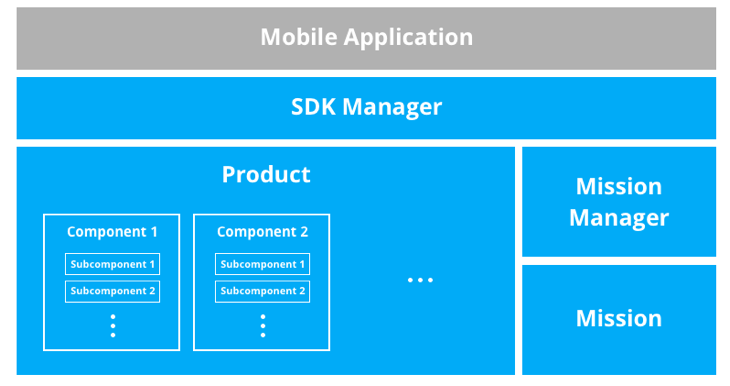
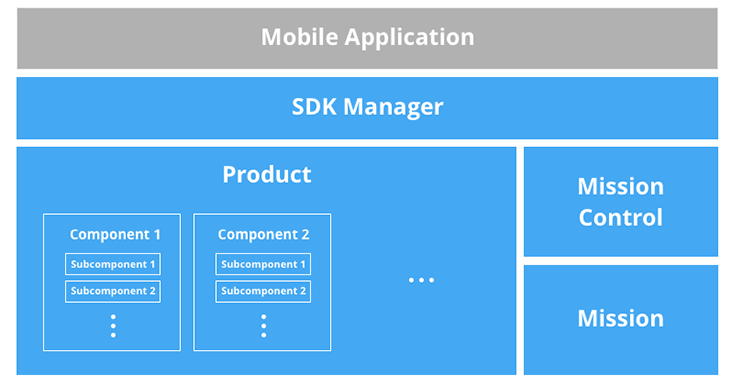
update mission control docs.

diff --git a/source/cn/ios-tutorials/GSDemo.md b/source/cn/ios-tutorials/GSDemo.md
@@ -10,7 +10,7 @@ keywords: [iOS GSDemo, waypoint mission demo]
 
 ---
 
-In this tutorial, you will learn how to implement the DJIWaypoint Mission feature and get familiar with the usages of DJIMissionManager. 
+In this tutorial, you will learn how to implement the DJIWaypoint Mission feature and get familiar with the usages of DJIMissionControl. 
 Also you will know how to test the Waypoint Mission API with DJI Assistant 2 Simulator too. So let's get started!
 
 You can download the tutorial's final sample project from this [Github Page](https://github.com/DJI-Mobile-SDK-Tutorials/iOS-GSDemo).
@@ -1356,7 +1356,7 @@ Once you finished the above step, let's implement the `startBtnActionInGSButtonV
 
 Here, call the `startMissionWithCompletion:` method of DJIWaypointMissionOperator to start the DJIWaypoint mission! Then create a UIAlertView to display error message when start mission failed.
 
-Finally, let's implement the **stopMissionExecutionWithCompletion** method of DJIMissionManager in the **DJIGSButtonViewController** delegate method to stop the waypoint mission, as shown below:
+Finally, let's implement the **stopMissionExecutionWithCompletion** method of DJIMissionControl in the **DJIGSButtonViewController** delegate method to stop the waypoint mission, as shown below:
 
 ~~~objc
 - (void)stopBtnActionInGSButtonVC:(DJIGSButtonViewController *)GSBtnVC
@@ -1418,6 +1418,6 @@ The Mavic Pro will eventually go home, land, and the beeping from the remote con
 
 ### Summary
    
-   In this tutorial, you’ve learned how to setup and use the DJI Assistant 2 Simulator to test your waypoint mission application, upgrade your aircraft's firmware to the developer version, use the DJI Mobile SDK to create a simple map view, modify annotations of the map view, show the aircraft on the map view by using GPS data from the DJI Assistant 2 Simulator. Next, you learned how to configure **DJIWaypoint** parameters, how to add waypoints to **DJIMutableWaypointMission**. Moreover, you learned how to use DJIMissionManager to **prepare**, **start** and **stop** missions. 
+   In this tutorial, you’ve learned how to setup and use the DJI Assistant 2 Simulator to test your waypoint mission application, upgrade your aircraft's firmware to the developer version, use the DJI Mobile SDK to create a simple map view, modify annotations of the map view, show the aircraft on the map view by using GPS data from the DJI Assistant 2 Simulator. Next, you learned how to configure **DJIWaypoint** parameters, how to add waypoints to **DJIMutableWaypointMission**. Moreover, you learned how to use DJIMissionControl to **prepare**, **start** and **stop** missions. 
       
    Congratulations! Now that you've finished the demo project, you can build on what you've learned and start to build your own waypoint mission application. You can improve the method which waypoints are added(such as drawing a line on the map and generating waypoints automatically), play around with the properties of a waypoint (such as heading, etc.), and adding more functionality. In order to make a cool waypoint mission application, you still have a long way to go. Good luck and hope you enjoy this tutorial!

diff --git a/source/ios-tutorials/GSDemo.md b/source/ios-tutorials/GSDemo.md
@@ -10,7 +10,7 @@ keywords: [iOS GSDemo, waypoint mission demo]
 
 ---
 
-In this tutorial, you will learn how to implement the DJIWaypoint Mission feature and get familiar with the usages of DJIMissionManager. 
+In this tutorial, you will learn how to implement the DJIWaypoint Mission feature and get familiar with the usages of DJIMissionControl. 
 Also you will know how to test the Waypoint Mission API with DJI Assistant 2 Simulator too. So let's get started!
 
 You can download the tutorial's final sample project from this [Github Page](https://github.com/DJI-Mobile-SDK-Tutorials/iOS-GSDemo).
@@ -1356,7 +1356,7 @@ Once you finished the above step, let's implement the `startBtnActionInGSButtonV
 
 Here, call the `startMissionWithCompletion:` method of DJIWaypointMissionOperator to start the DJIWaypoint mission! Then create a UIAlertView to display error message when start mission failed.
 
-Finally, let's implement the **stopMissionExecutionWithCompletion** method of DJIMissionManager in the **DJIGSButtonViewController** delegate method to stop the waypoint mission, as shown below:
+Finally, let's implement the **stopMissionExecutionWithCompletion** method of DJIMissionControl in the **DJIGSButtonViewController** delegate method to stop the waypoint mission, as shown below:
 
 ~~~objc
 - (void)stopBtnActionInGSButtonVC:(DJIGSButtonViewController *)GSBtnVC
@@ -1418,6 +1418,6 @@ The Mavic Pro will eventually go home, land, and the beeping from the remote con
 
 ### Summary
    
-   In this tutorial, you’ve learned how to setup and use the DJI Assistant 2 Simulator to test your waypoint mission application, upgrade your aircraft's firmware to the developer version, use the DJI Mobile SDK to create a simple map view, modify annotations of the map view, show the aircraft on the map view by using GPS data from the DJI Assistant 2 Simulator. Next, you learned how to configure **DJIWaypoint** parameters, how to add waypoints to **DJIMutableWaypointMission**. Moreover, you learned how to use DJIMissionManager to **prepare**, **start** and **stop** missions. 
+   In this tutorial, you’ve learned how to setup and use the DJI Assistant 2 Simulator to test your waypoint mission application, upgrade your aircraft's firmware to the developer version, use the DJI Mobile SDK to create a simple map view, modify annotations of the map view, show the aircraft on the map view by using GPS data from the DJI Assistant 2 Simulator. Next, you learned how to configure **DJIWaypoint** parameters, how to add waypoints to **DJIMutableWaypointMission**. Moreover, you learned how to use DJIMissionControl to **prepare**, **start** and **stop** missions. 
       
    Congratulations! Now that you've finished the demo project, you can build on what you've learned and start to build your own waypoint mission application. You can improve the method which waypoints are added(such as drawing a line on the map and generating waypoints automatically), play around with the properties of a waypoint (such as heading, etc.), and adding more functionality. In order to make a cool waypoint mission application, you still have a long way to go. Good luck and hope you enjoy this tutorial!

diff --git a/source/cn/introduction/sdk_architectural_overview.md b/source/cn/introduction/sdk_architectural_overview.md
@@ -20,7 +20,7 @@ A mobile application accesses the DJI Mobile SDK through several main classes il
 * **Product**: The aircraft or handheld product, this class holds basic product properties and contains the main product components.
 * **Component**: Component classes describe the gimbal, camera, flight controller, remote controller and wireless link. The classes provide component control, state information and contain subcomponents.
 * **Mission**: Classes that describe different missions such as Waypoint and ActiveTrack missions and hold their setup properties and status.
-* **Mission Manager**: Missions are controlled through the mission manager. It provides control of mission preparation, execution, termination, pausing and resumption as well as provides access to the currently executing mission.
+* **Mission Control**: Mission Control handles execution of missions. Either single missions can be run through dedicated mission operators, or a series of missions and actions can be run serially using the Timeline.
 
 ## Aircraft Product
 
@@ -36,7 +36,7 @@ The handheld camera product is simpler and has less components than an aircraft.
 
 ## Missions
 
-Missions can be used to easily automate flight. For more details, please check the [Missions](./component-guide-missions.html) section. All missions inherit from DJIMission so they can be handled by the Mission Manager.
+Missions can be used to easily automate flight. For more details, please check the [Missions](./component-guide-missions.html) section. All missions inherit from DJIMission so they can be handled by the Mission Control.
 
 <html><img src="../../images/sdk-architectural-overview/SDKMissionArchitecture.png"></html> 
 

diff --git a/source/introduction/sdk_architectural_overview.md b/source/introduction/sdk_architectural_overview.md
@@ -20,7 +20,7 @@ A mobile application accesses the DJI Mobile SDK through several main classes il
 * **Product**: The aircraft or handheld product, this class holds basic product properties and contains the main product components.
 * **Component**: Component classes describe the gimbal, camera, flight controller, remote controller and wireless link. The classes provide component control, state information and contain subcomponents.
 * **Mission**: Classes that describe different missions such as Waypoint and ActiveTrack missions and hold their setup properties and status.
-* **Mission Manager**: Missions are controlled through the mission manager. It provides control of mission preparation, execution, termination, pausing and resumption as well as provides access to the currently executing mission.
+* **Mission Control**: Mission Control handles execution of missions. Either single missions can be run through dedicated mission operators, or a series of missions and actions can be run serially using the Timeline.
 
 ## Aircraft Product
 
@@ -36,7 +36,7 @@ The handheld camera product is simpler and has less components than an aircraft.
 
 ## Missions
 
-Missions can be used to easily automate flight. For more details, please check the [Missions](./component-guide-missions.html) section. All missions inherit from DJIMission so they can be handled by the Mission Manager.
+Missions can be used to easily automate flight. For more details, please check the [Missions](./component-guide-missions.html) section. All missions inherit from DJIMission so they can be handled by the Mission Control.
 
 <html><img src="../images/sdk-architectural-overview/SDKMissionArchitecture.png"></html> 
 

diff --git a/source/cn/introduction/component-guide-missions.md b/source/cn/introduction/component-guide-missions.md
@@ -1,7 +1,7 @@
 ---
 title: Missions
 date: 2017-06-27
-keywords: [mission manager, waypoint mission, hot point mission, follow me mission, activeTrack mission, tapFly mission, panorama mission, custom mission]
+keywords: [mission control, waypoint mission, hot point mission, follow me mission, activeTrack mission, tapFly mission, panorama mission, custom mission]
 ---
 
 ## Introduction
@@ -10,11 +10,9 @@ Missions can be used to easily automate flight. There are many different mission
 
 Missions run from the mobile device can offer more complex or customizable behavior, however if the wireless link between remote controller and aircraft is lost then they can be interrupted. In comparison, missions run from the aircraft will be less customizable and be limited by aircraft memory, but be able to continue when there is a loss in the wireless link.
 
+## Mission Control
 
-## Mission Manager
-
-All missions are managed through the DJI Mobile SDK's Mission Manager. The Mission Manager provides a consistent execution experience for all missions and allows preparation, starting, pausing, resuming, downloading and ending of missions.
-
+Mission Control handles execution of missions. Either single missions can be run through dedicated mission operators, or a series of missions and actions can be run serially using the Timeline.
 
 ## Waypoint Mission
 

diff --git a/source/introduction/component-guide-missions.md b/source/introduction/component-guide-missions.md
@@ -1,7 +1,7 @@
 ---
 title: Missions
 date: 2017-06-27
-keywords: [mission manager, waypoint mission, hot point mission, follow me mission, activeTrack mission, tapFly mission, panorama mission, custom mission]
+keywords: [mission control, waypoint mission, hot point mission, follow me mission, activeTrack mission, tapFly mission, panorama mission, custom mission]
 ---
 
 ## Introduction
@@ -10,11 +10,9 @@ Missions can be used to easily automate flight. There are many different mission
 
 Missions run from the mobile device can offer more complex or customizable behavior, however if the wireless link between remote controller and aircraft is lost then they can be interrupted. In comparison, missions run from the aircraft will be less customizable and be limited by aircraft memory, but be able to continue when there is a loss in the wireless link.
 
+## Mission Control
 
-## Mission Manager
-
-All missions are managed through the DJI Mobile SDK's Mission Manager. The Mission Manager provides a consistent execution experience for all missions and allows preparation, starting, pausing, resuming, downloading and ending of missions.
-
+Mission Control handles execution of missions. Either single missions can be run through dedicated mission operators, or a series of missions and actions can be run serially using the Timeline.
 
 ## Waypoint Mission
 

diff --git a/source/android-tutorials/P4MissionsDemo.md b/source/android-tutorials/P4MissionsDemo.md
@@ -1712,7 +1712,7 @@ By the way, you can use Wireless Android Debug Bridge (adb) to debug the app usi
 
 ### Summary
 
-  Congratulations! You've finished the demo project and implement the two cool **TapFly** and **ActiveTrack** missions using DJI Mobile SDK. It's easy and straightforward. You've learned how to use the DJITapFlyMission, DJIActiveTrackMission and DJIMissionManager to implement the features.
+  Congratulations! You've finished the demo project and implement the two cool **TapFly** and **ActiveTrack** missions using DJI Mobile SDK. It's easy and straightforward. You've learned how to use the DJITapFlyMission, DJIActiveTrackMission and DJIMissionControl to implement the features.
 
   But, In order to make a cool **TapFly** and **ActiveTrack** mission application, you still have a long way to go. You can add more necessary features like showing the battery percentage, GPS signal quality, add a checklist like DJI Go app to check the aircraft status before flying, etc. Good luck and hope you enjoy this tutorial!
   

diff --git a/source/cn/android-tutorials/P4MissionsDemo.md b/source/cn/android-tutorials/P4MissionsDemo.md
@@ -1712,7 +1712,7 @@ By the way, you can use Wireless Android Debug Bridge (adb) to debug the app usi
 
 ### Summary
 
-  Congratulations! You've finished the demo project and implement the two cool **TapFly** and **ActiveTrack** missions using DJI Mobile SDK. It's easy and straightforward. You've learned how to use the DJITapFlyMission, DJIActiveTrackMission and DJIMissionManager to implement the features.
+  Congratulations! You've finished the demo project and implement the two cool **TapFly** and **ActiveTrack** missions using DJI Mobile SDK. It's easy and straightforward. You've learned how to use the DJITapFlyMission, DJIActiveTrackMission and DJIMissionControl to implement the features.
 
   But, In order to make a cool **TapFly** and **ActiveTrack** mission application, you still have a long way to go. You can add more necessary features like showing the battery percentage, GPS signal quality, add a checklist like DJI Go app to check the aircraft status before flying, etc. Good luck and hope you enjoy this tutorial!
   

diff --git a/source/android-tutorials/GSDemo-Gaode-Map.md b/source/android-tutorials/GSDemo-Gaode-Map.md
@@ -10,7 +10,7 @@ keywords: [Android GSDemo, Gaode Map, waypoint mission demo]
 
 ---
 
-In this tutorial, you will learn how to implement the DJIWaypoint Mission feature and get familiar with the usages of MissionManager. 
+In this tutorial, you will learn how to implement the DJIWaypoint Mission feature and get familiar with the usages of MissionControl. 
 Also you will know how to test the Waypoint Mission API with DJI Assistant 2 Simulator too. So let's get started!
 
 You can download the tutorial's final sample project from this [Github Page](https://github.com/DJI-Mobile-SDK-Tutorials/Android-GSDemo-Gaode-Map).

diff --git a/source/cn/android-tutorials/GSDemo-Gaode-Map.md b/source/cn/android-tutorials/GSDemo-Gaode-Map.md
@@ -10,7 +10,7 @@ keywords: [Android GSDemo, Gaode Map, waypoint mission demo]
 
 ---
 
-In this tutorial, you will learn how to implement the DJIWaypoint Mission feature and get familiar with the usages of MissionManager. 
+In this tutorial, you will learn how to implement the DJIWaypoint Mission feature and get familiar with the usages of MissionControl. 
 Also you will know how to test the Waypoint Mission API with DJI Assistant 2 Simulator too. So let's get started!
 
 You can download the tutorial's final sample project from this [Github Page](https://github.com/DJI-Mobile-SDK-Tutorials/Android-GSDemo-Gaode-Map).

diff --git a/source/android-tutorials/GSDemo-Google-Map.md b/source/android-tutorials/GSDemo-Google-Map.md
@@ -10,7 +10,7 @@ keywords: [Android GSDemo, Google Map, Google Play Service, waypoint mission dem
 
 ---
 
-In this tutorial, you will learn how to implement the DJIWaypoint Mission feature and get familiar with the usages of MissionManager. 
+In this tutorial, you will learn how to implement the DJIWaypoint Mission feature and get familiar with the usages of MissionControl. 
 
 Also you will know how to test the Waypoint Mission API with DJI Assistant 2 Simulator too. So let's get started!
 

diff --git a/source/cn/android-tutorials/GSDemo-Google-Map.md b/source/cn/android-tutorials/GSDemo-Google-Map.md
@@ -10,7 +10,7 @@ keywords: [Android GSDemo, Google Map, Google Play Service, waypoint mission dem
 
 ---
 
-In this tutorial, you will learn how to implement the DJIWaypoint Mission feature and get familiar with the usages of MissionManager. 
+In this tutorial, you will learn how to implement the DJIWaypoint Mission feature and get familiar with the usages of MissionControl. 
 
 Also you will know how to test the Waypoint Mission API with DJI Assistant 2 Simulator too. So let's get started!
 
